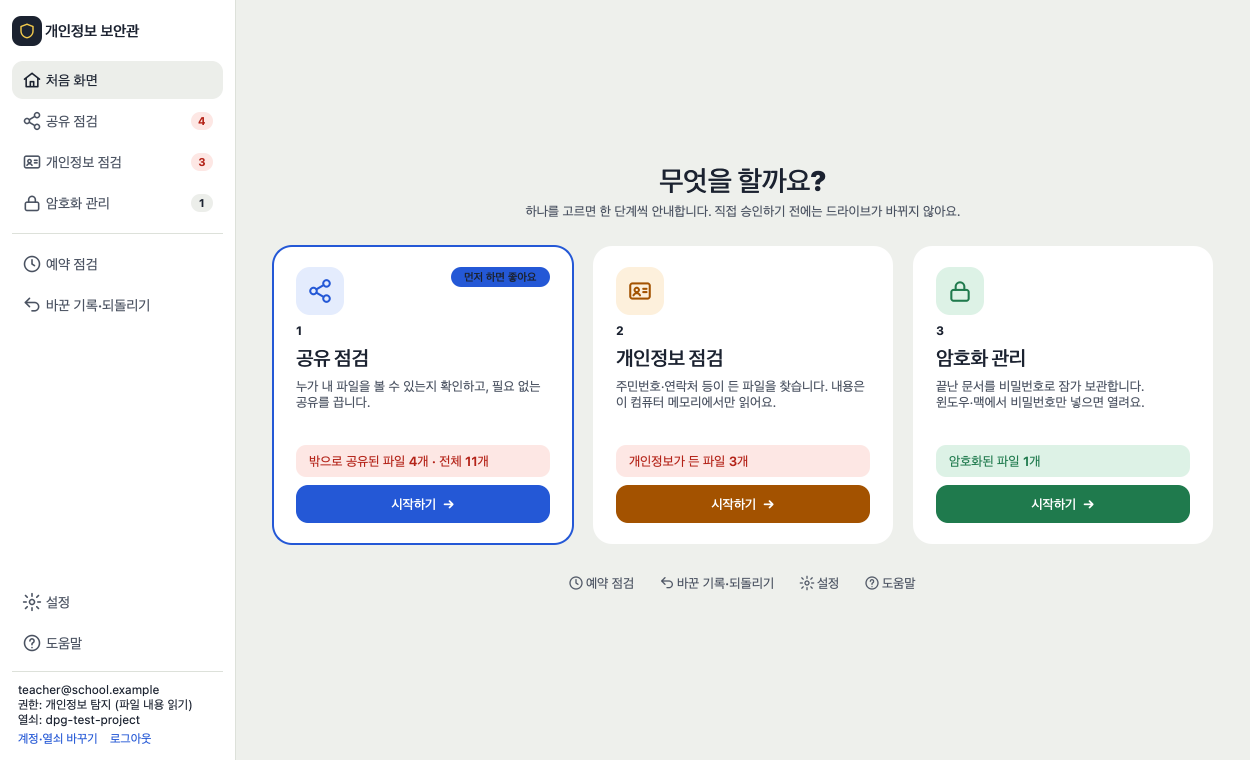
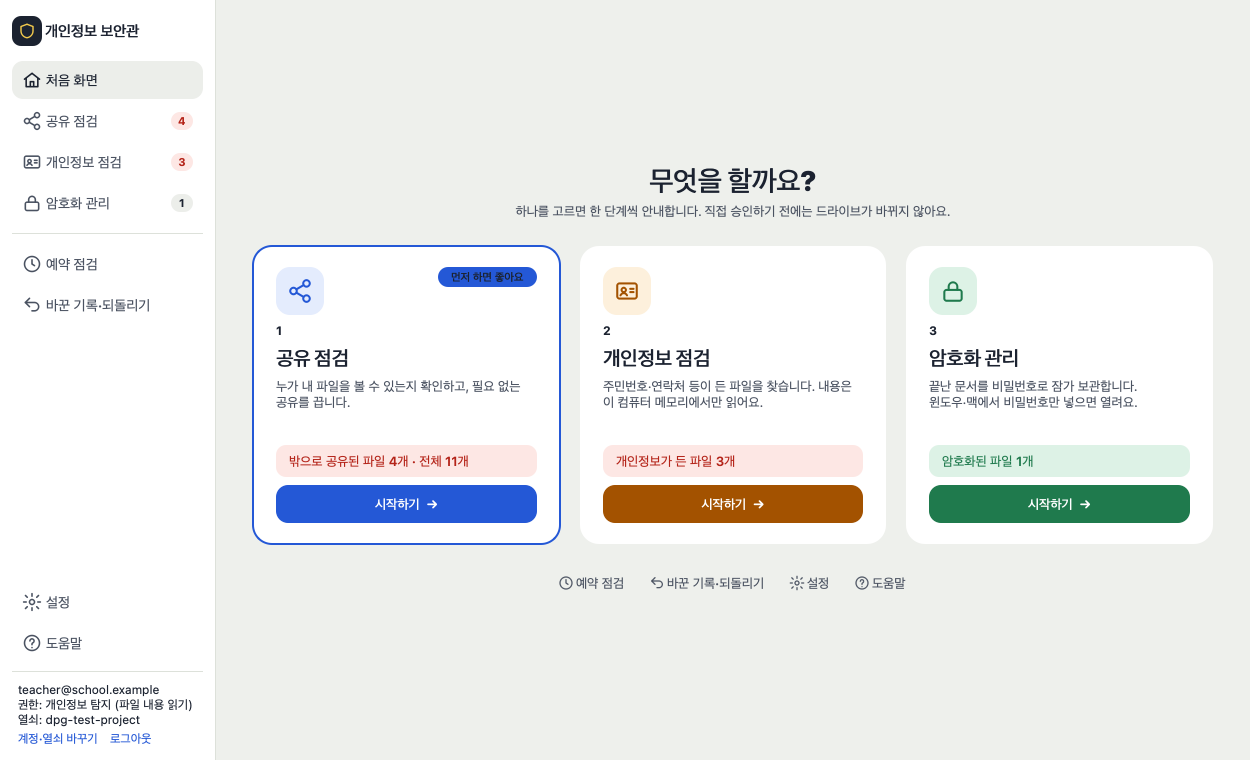
Narrower minimum window for Windows fonts: menus shrink only when the window does, slimmer left menu and action buttons; the size test reports which row is widest

diff --git a/src/dpg/gui/main_window.py b/src/dpg/gui/main_window.py
@@ -718,7 +718,7 @@ class MainWindow(QMainWindow):
     def _build_nav(self) -> QFrame:
         nav = QFrame()
         nav.setObjectName("nav")
-        nav.setFixedWidth(236)
+        nav.setFixedWidth(216)
         col = QVBoxLayout(nav)
         col.setContentsMargins(12, 16, 12, 12)
         col.setSpacing(3)
@@ -1013,6 +1013,7 @@ class MainWindow(QMainWindow):
         vault_row.setContentsMargins(14, 10, 14, 10)
         self.key_line = QLabel("")
         self.key_line.setObjectName("keyLine")
+        self.key_line.setWordWrap(True)
         vault_row.addWidget(self.key_line, 1)
         self.key_buttons: list[QPushButton] = []
         for text, slot in (
@@ -1036,6 +1037,7 @@ class MainWindow(QMainWindow):
         list_col.setSpacing(6)
         filter_row = QHBoxLayout()
         filter_row.setContentsMargins(12, 0, 12, 0)
+        filter_row.setSpacing(6)
         self.filter_combo = QComboBox()
         for key, label in FILTERS.items():
             self.filter_combo.addItem(label, key)
@@ -1052,6 +1054,12 @@ class MainWindow(QMainWindow):
         self.search_edit.textChanged.connect(self._search_changed)
         self.count_label = QLabel("")
         self.count_label.setObjectName("muted")
+        # long choices ("암호화된 파일 (이 앱으로 …)") must not set the window's width
+        short = QComboBox.SizeAdjustPolicy.AdjustToMinimumContentsLengthWithIcon
+        for combo, chars in ((self.filter_combo, 9), (self.sort_combo, 6), (self.scope_combo, 12)):
+            combo.setSizeAdjustPolicy(short)
+            combo.setMinimumContentsLength(chars)
+        self.search_edit.setMinimumWidth(100)
         # list-wide tools (no selection needed) live under 「목록 도구」
         self.export_btn = QPushButton("보고서 저장 (엑셀·CSV)…")
         self.export_btn.setToolTip(
@@ -1080,11 +1088,11 @@ class MainWindow(QMainWindow):
         self.tools_btn.clicked.connect(self.popup_list_tools)
         filter_row.addWidget(self.search_edit, 2)
         filter_row.addWidget(QLabel("보기"))
-        filter_row.addWidget(self.filter_combo)
+        filter_row.addWidget(self.filter_combo, 2)  # narrow only when the window is narrow
         filter_row.addWidget(QLabel("정렬"))
         filter_row.addWidget(self.sort_combo)
         filter_row.addWidget(self.count_label)
-        filter_row.addStretch(1)
+        filter_row.addSpacing(8)
         filter_row.addWidget(self.tools_btn)
         list_col.addLayout(filter_row)
 
@@ -1154,7 +1162,7 @@ class MainWindow(QMainWindow):
         pick_row.addWidget(self.select_none_btn)
         bar_col.addLayout(pick_row)
         self.bar_row = QHBoxLayout()
-        self.bar_row.setSpacing(8)
+        self.bar_row.setSpacing(6)
         self.change_btn = QPushButton("공유 설정 바꾸기")
         self.change_btn.setToolTip(
             "링크 공개 해제, 외부 사용자 삭제 등. "

diff --git a/tests/gui/test_gui.py b/tests/gui/test_gui.py
@@ -1211,10 +1211,12 @@ def test_window_fits_a_laptop_screen(qtbot: Any, env: Env) -> None:
     assert env.ctx is not None
     window = MainWindow(env.ctx)
     qtbot.addWidget(window)
+    rows = window.work.layout()
     for page in ("share", "privacy", "vault", "home"):
         window.show_page(page)
-        # fits a 1280-pixel laptop screen, with room for wider fonts (Mac 922, Windows wider)
-        assert window.minimumSizeHint().width() <= 1050, page
+        widths = [rows.itemAt(i).minimumSize().width() for i in range(rows.count())]
+        # fits a 1280-pixel laptop screen with room to spare (Windows fonts are ~20% wider)
+        assert window.minimumSizeHint().width() <= 1050, (page, widths)
     window.show()
     qtbot.wait(50)
     assert window.width() <= 1280

diff --git a/src/dpg/gui/shell.py b/src/dpg/gui/shell.py
@@ -407,7 +407,7 @@ QFrame#actionBar {{ background: {t["bar"]}; border-radius: 16px; }}
 QFrame#actionBar QLabel {{ color: {t["bar_ink"]}; font-weight: 700; }}
 QFrame#actionBar QLabel#barHint {{ color: {t["bar_soft"]}; font-weight: 500; }}
 QFrame#actionBar QPushButton {{ background: rgba(255,255,255,0.13); color: {t["bar_ink"]};
-  border: 0; border-radius: 10px; padding: 8px 13px; font-weight: 700; }}
+  border: 0; border-radius: 10px; padding: 8px 10px; font-weight: 700; }}
 QFrame#actionBar QPushButton:hover {{ background: rgba(255,255,255,0.22); }}
 QFrame#actionBar QPushButton:disabled {{ color: rgba(255,255,255,0.38);
   background: rgba(255,255,255,0.06); }}
